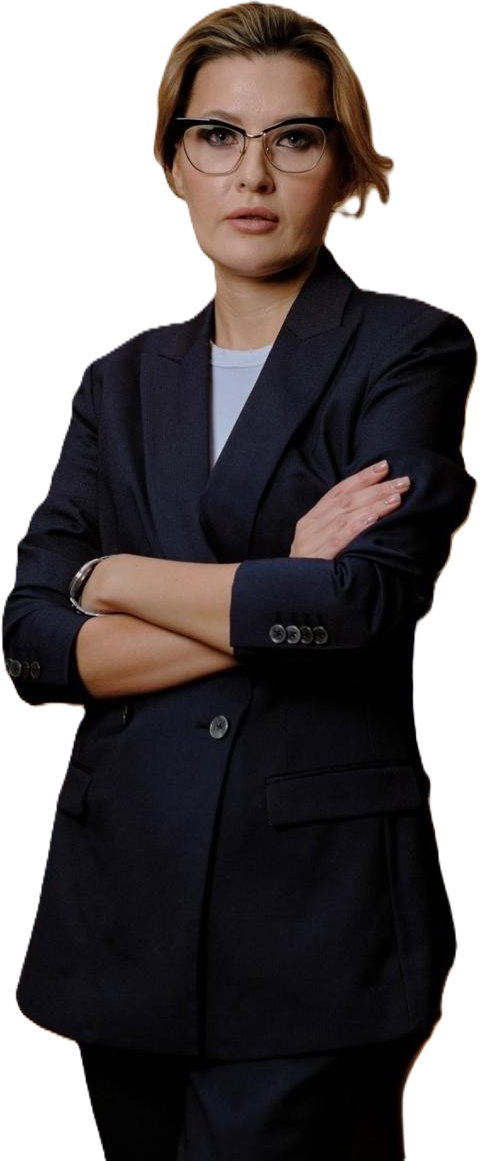
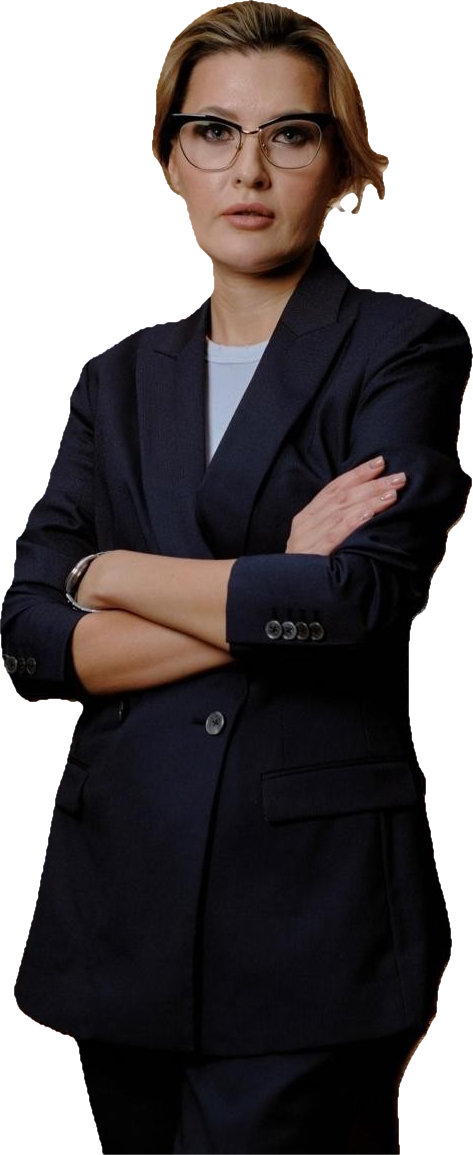
Снята светлая кайма по контуру вырезки
remove.bg оставлял на границе пиксели со старым светлым фоном:
яркость края 136 против 34 у самой фигуры, на графите это светилось
контуром. Цвет края перекрашен по ближайшему пикселю изнутри,
маска ужата на 2px и мягко растушёвана. Край стал 35.

diff --git a/index.html b/index.html
@@ -631,10 +631,10 @@ body{ padding-bottom:calc(52px + env(safe-area-inset-bottom, 0px)); }
 </style>
 
 <!-- Остальные стили не блокируют первую отрисовку -->
-<link rel="preload" href="css/styles.css?v=4" as="style" onload="this.onload=null;this.rel='stylesheet'">
-<noscript><link rel="stylesheet" href="css/styles.css?v=4"></noscript>
+<link rel="preload" href="css/styles.css?v=5" as="style" onload="this.onload=null;this.rel='stylesheet'">
+<noscript><link rel="stylesheet" href="css/styles.css?v=5"></noscript>
 
-<script src="js/script.js?v=4" defer></script>
+<script src="js/script.js?v=5" defer></script>
 
 <!-- ══ Schema.org ══ -->
 <script type="application/ld+json">
@@ -792,7 +792,7 @@ body{ padding-bottom:calc(52px + env(safe-area-inset-bottom, 0px)); }
       <img class="hero__img"
            src="img/portrait.png"
            alt="Адвокат Стовповая Анастасия Олеговна"
-           width="480" height="1161"
+           width="473" height="1155"
            fetchpriority="high" decoding="async">
     </picture>
     <span class="hero__ph" aria-hidden="true">портрет · png с альфа-каналом</span>
